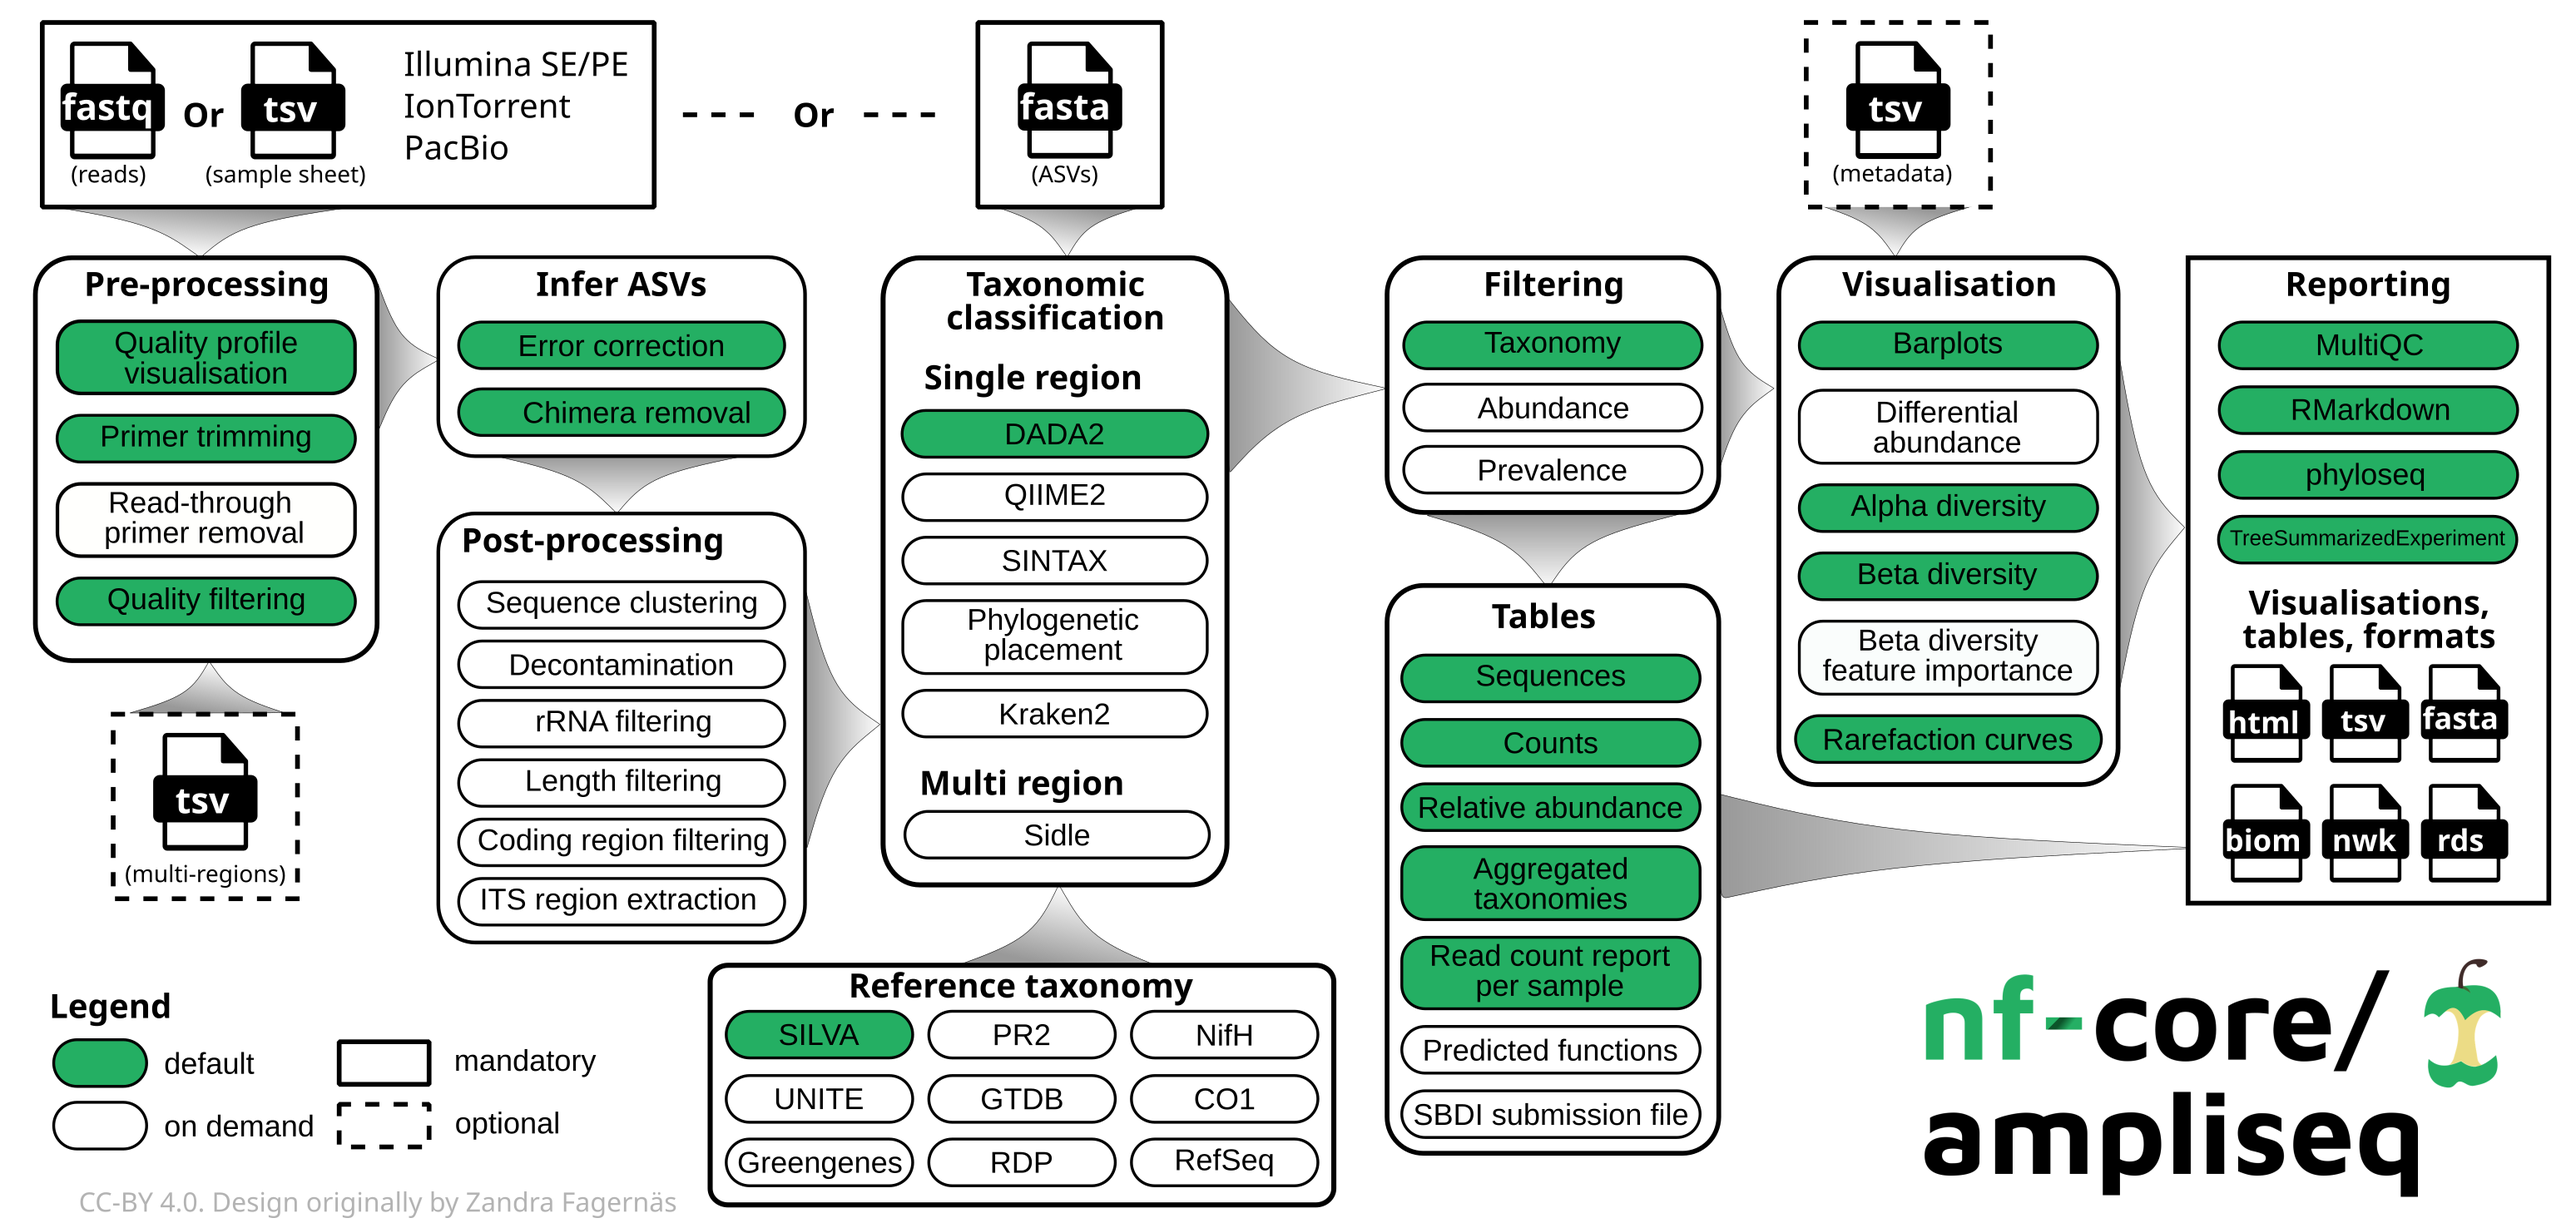
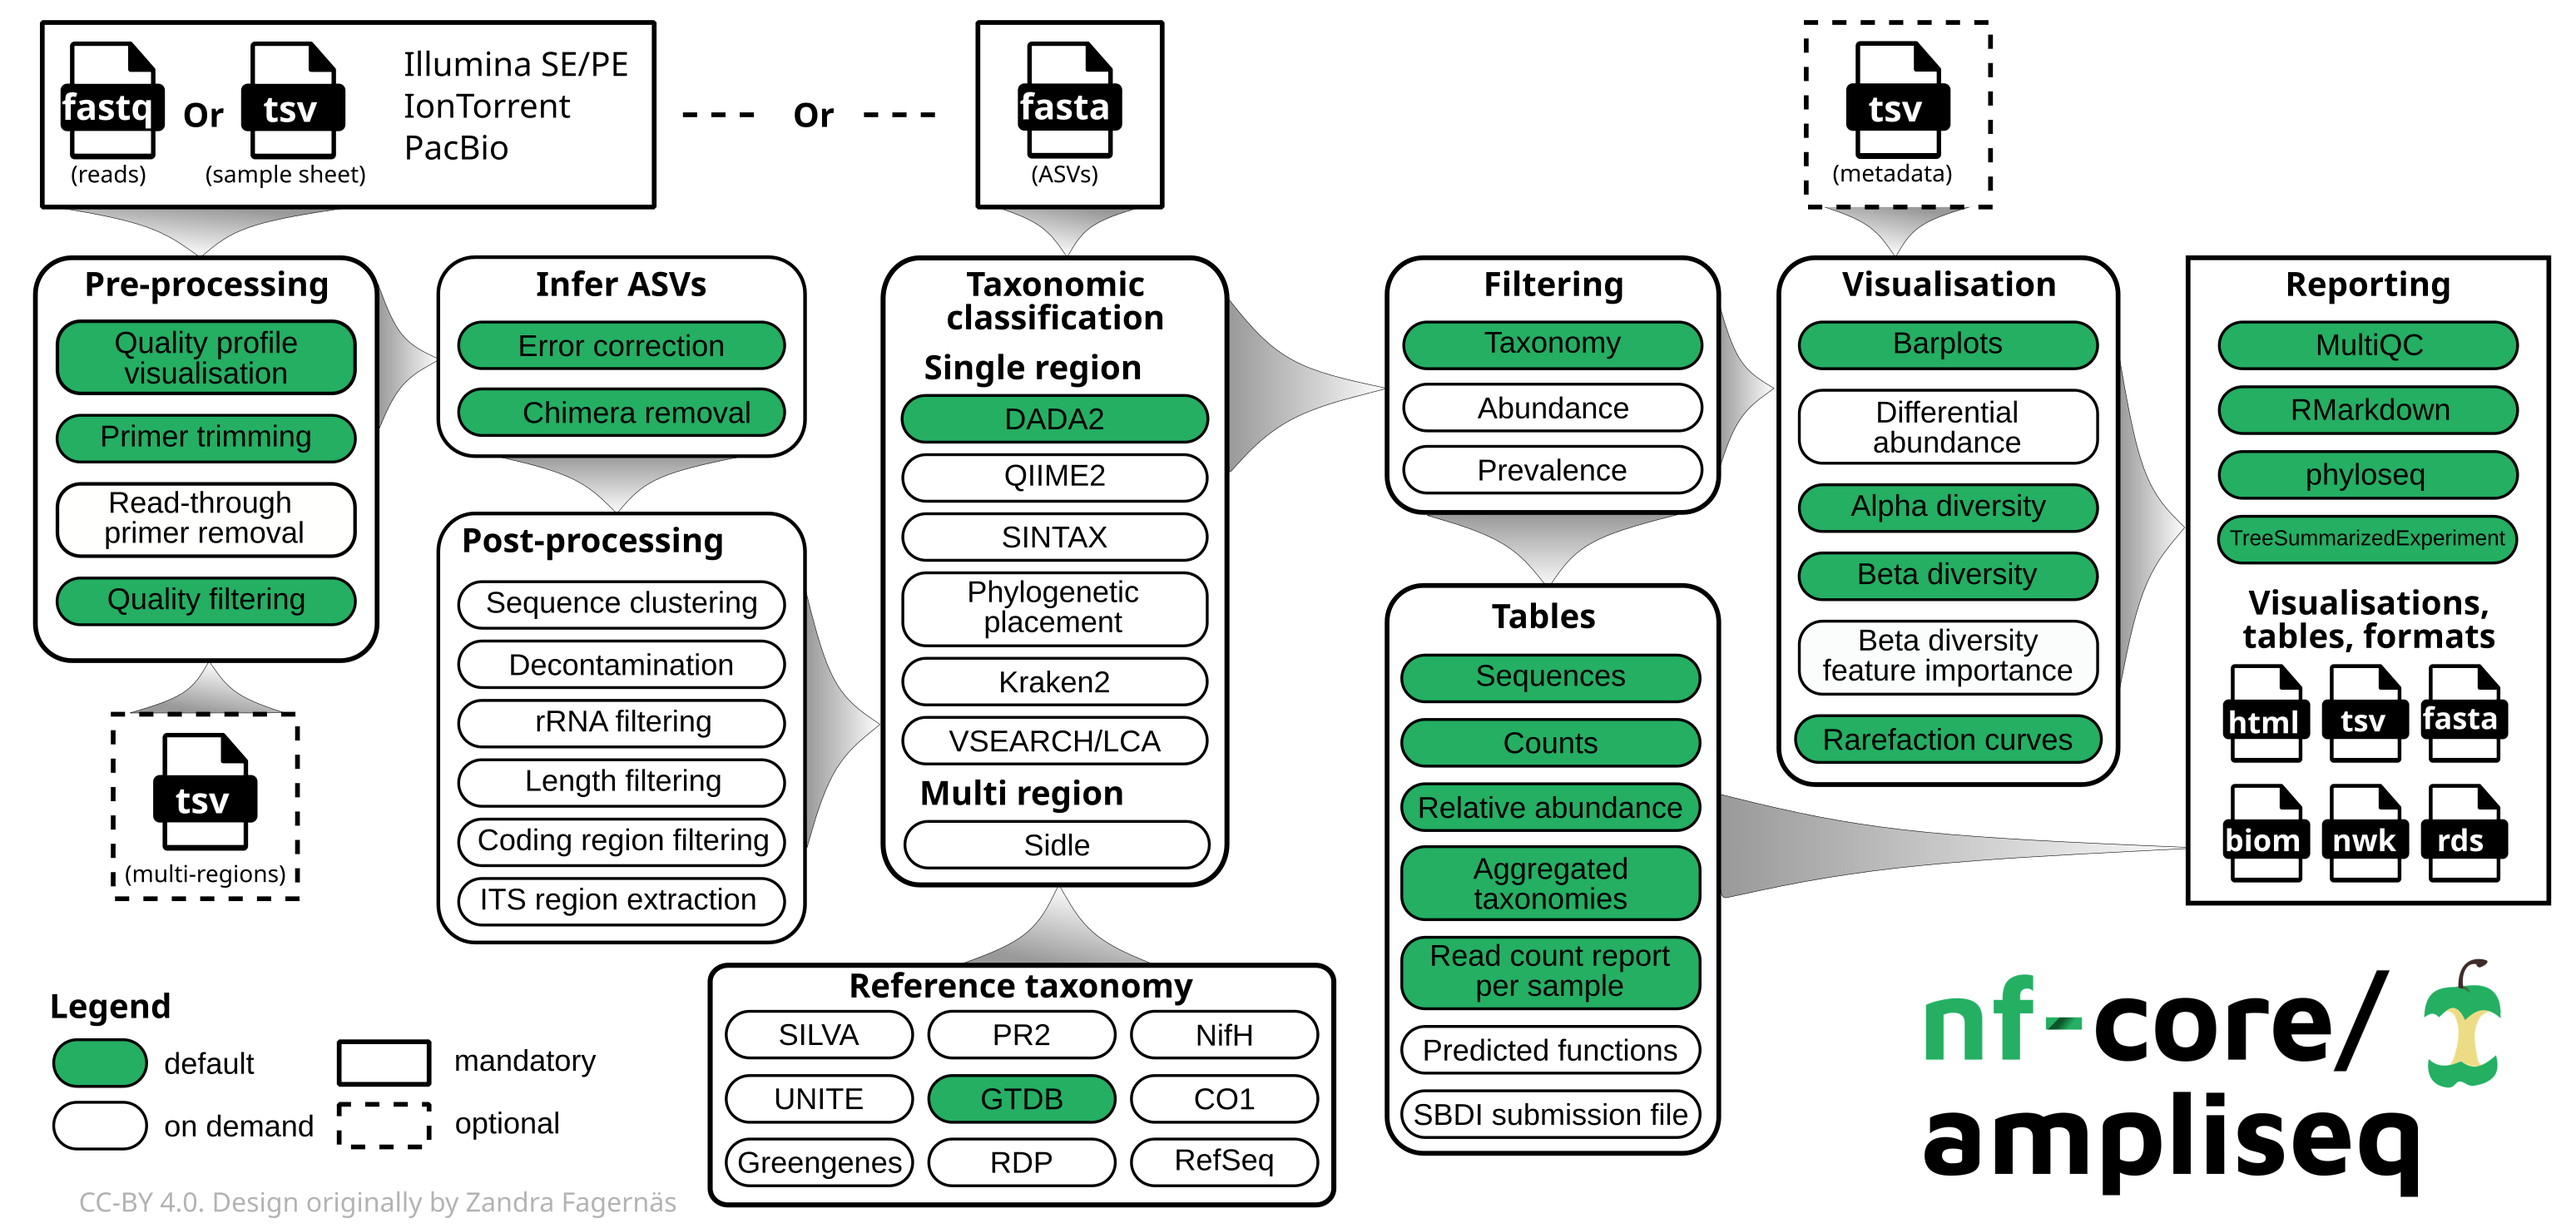
Change default for --dada_ref_taxonomy

Changed region(s): [[0.3411, 0.2805, 0.4651, 0.7168], [0.2791, 0.8103, 0.4341, 0.935]]

diff --git a/CHANGELOG.md b/CHANGELOG.md
@@ -13,6 +13,8 @@ and this project adheres to [Semantic Versioning](https://semver.org/spec/v2.0.0
 
 ### `Changed`
 
+- [#1012](https://github.com/nf-core/ampliseq/pull/1012) - Changed default for `--dada_ref_taxonomy` from `silva=138.2` to `sbdi-gtdb=R11-RS232-1`
+
 ### `Fixed`
 
 - [#993](https://github.com/nf-core/ampliseq/pull/993) - Rely on topics for software versions
